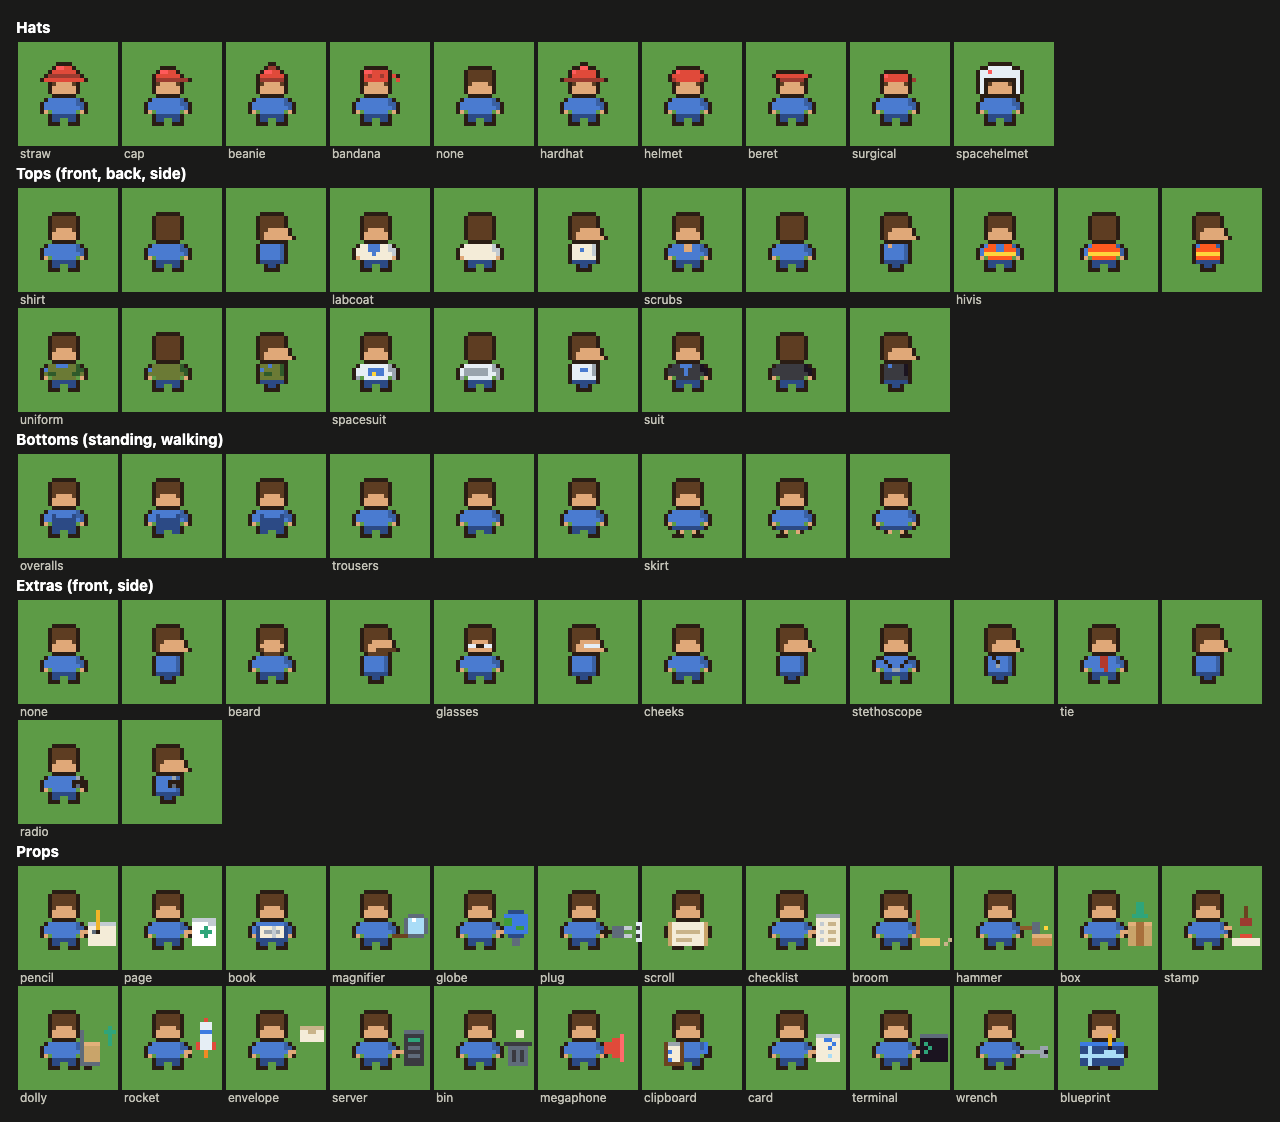
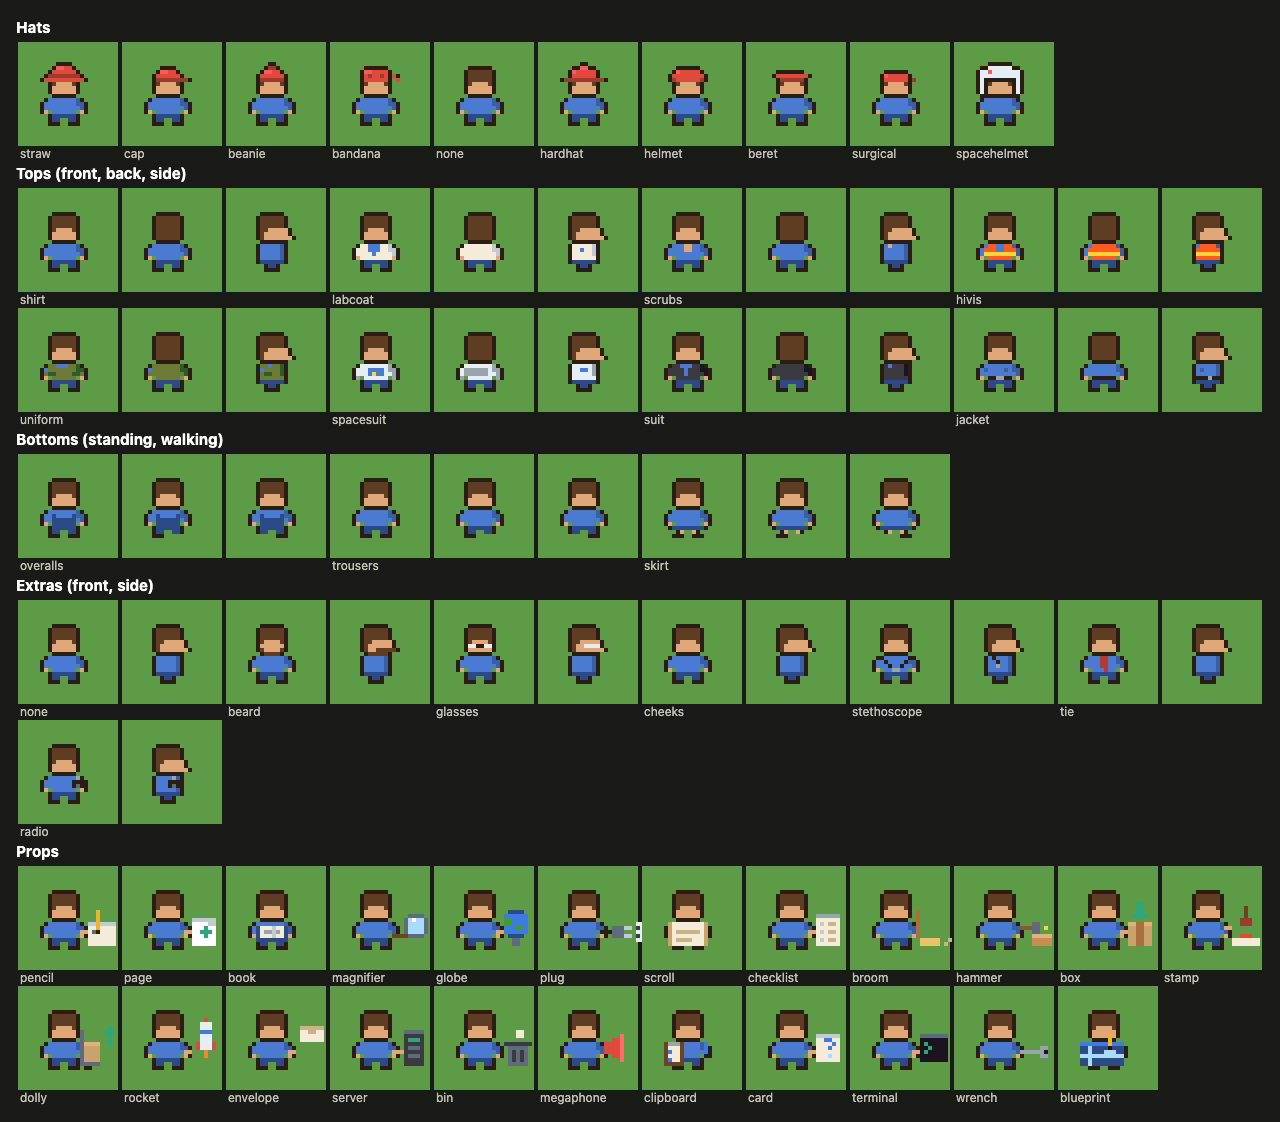
Kits: the kit picture with the jacket; an unknown goat look is the plain goat
docs/kits.png retaken (npm run kit-sheet). check-world's pointer says an
unknown goat look is drawn as the plain goat, with a test. The guide notes the
jacket's back has no buckle; the people test checks the belt and buckle.

Changed region(s): [[0.7188, 0.2496, 1.0, 0.3743]]

diff --git a/docs/worlds.md b/docs/worlds.md
@@ -663,7 +663,7 @@ every hat but `none` also has a highlight in a lighter shade of the hat colour.
 | top | `uniform` | an olive uniform with a shoulder patch | fixed (olive, dark green); the collar and the patch are the agent's colour |
 | top | `spacesuit` | a white suit with a chest panel, gloves and a pack on the back | fixed (white, grey gloves and pack); the panel is the agent's colour, with one yellow light |
 | top | `suit` | a dark jacket with the shirt down the front | fixed (dark); the shirt is the agent's colour |
-| top | `jacket` | a field jacket: chest pockets and a belt with a buckle | the agent's colour; the pockets are its shade, the belt dark with a metal buckle |
+| top | `jacket` | a field jacket: chest pockets and a belt with a buckle | the agent's colour; the pockets are its shade, the belt dark with a metal buckle (the back view has no buckle) |
 | bottom | `overalls` | a bib over the top, and the hips and legs | the bottom colour (the bib too) |
 | bottom | `trousers` | trousers | the bottom colour |
 | bottom | `skirt` | a skirt, the legs bare | the bottom colour |
